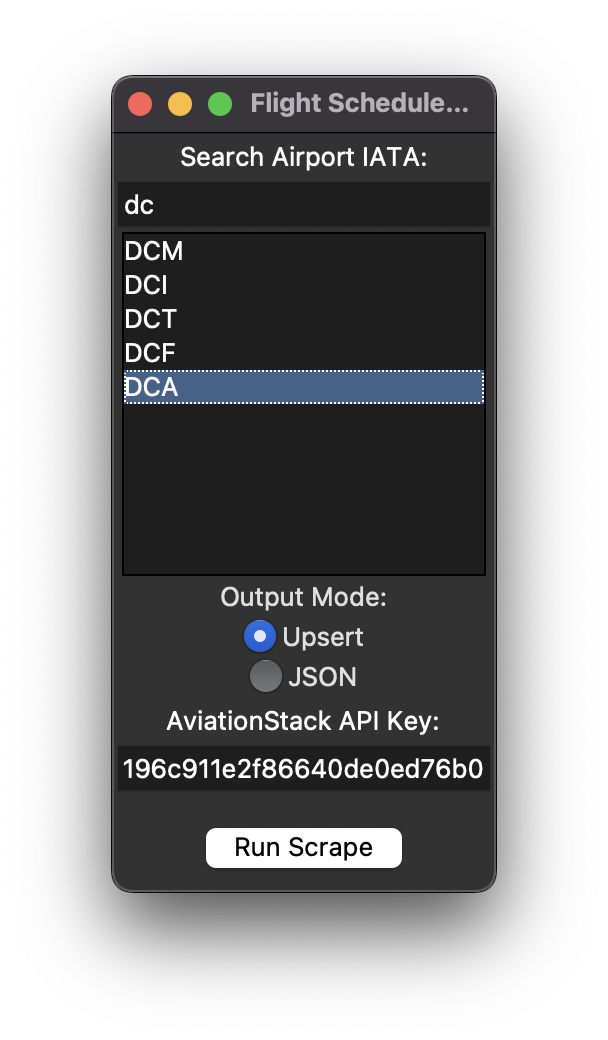
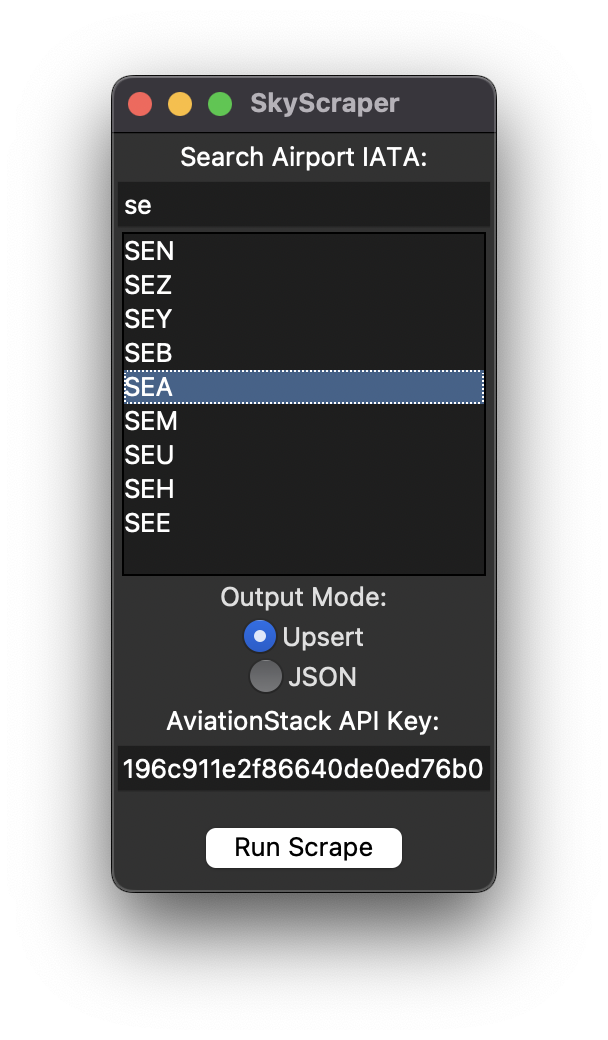
updated SkyScraper with UTC local offset

Changed region(s): [[0.1875, 0.1846, 0.3125, 0.5231], [0.4062, 0.0923, 0.75, 0.1231]]

diff --git a/SkyScraper/scrape_real_flights.py b/SkyScraper/scrape_real_flights.py
@@ -32,26 +32,18 @@ def scrape(airport, api_key, mode="Upsert"):
         records = []
 
         for item in data.get("data", []):
-            # Parse departure and arrival info
             dep = item.get("departure", {})
             arr = item.get("arrival", {})
             flight = item.get("flight", {})
             airline = item.get("airline", {})
 
-            dep_time_str = dep.get("scheduled")
-            arr_time_str = arr.get("scheduled")
+            dep_time_utc = dep.get("scheduled")
+            arr_time_utc = arr.get("scheduled")
 
-            departure_time = dep_time_str
-            arrival_time = arr_time_str
+            if not dep_time_utc or not arr_time_utc:
+                continue
 
-            # --- Compute dayOfWeek using local departure time ---
-            if departure_time:
-                dt = parser.isoparse(departure_time)
-                local_day_of_week = dt.strftime("%A")
-            else:
-                local_day_of_week = None
-
-            # Lookup airport names and iataCodes from MongoDB
+            # Replace +00:00 with local offsets
             dep_iata = dep.get("iata")
             arr_iata = arr.get("iata")
 
@@ -64,7 +56,29 @@ def scrape(airport, api_key, mode="Upsert"):
             dep_iata_final = dep_airport_doc["iataCode"] if dep_airport_doc else dep_iata
             arr_iata_final = arr_airport_doc["iataCode"] if arr_airport_doc else arr_iata
 
-            # Use operating airline if present
+            dep_tz = dep_airport_doc.get("timezone") if dep_airport_doc else None
+            arr_tz = arr_airport_doc.get("timezone") if arr_airport_doc else None
+
+            if dep_tz:
+                dt_dep_utc = parser.isoparse(dep_time_utc)
+                dt_dep_local = dt_dep_utc.astimezone(pytz.timezone(dep_tz))
+                dep_time_local_str = dt_dep_local.isoformat()
+            else:
+                dep_time_local_str = dep_time_utc
+
+            if arr_tz:
+                dt_arr_utc = parser.isoparse(arr_time_utc)
+                dt_arr_local = dt_arr_utc.astimezone(pytz.timezone(arr_tz))
+                arr_time_local_str = dt_arr_local.isoformat()
+            else:
+                arr_time_local_str = arr_time_utc
+
+            if dep_time_local_str:
+                dt = parser.isoparse(dep_time_local_str)
+                local_day_of_week = dt.strftime("%A")
+            else:
+                local_day_of_week = None
+
             codeshared = flight.get("codeshared")
             if codeshared:
                 airline_name = codeshared.get("airline_name")
@@ -73,8 +87,7 @@ def scrape(airport, api_key, mode="Upsert"):
                 airline_name = airline.get("name")
                 flight_number = flight.get("number")
 
-            # Skip if missing required fields
-            if not (dep_airport_name and arr_airport_name and departure_time and arrival_time):
+            if not (dep_airport_name and arr_airport_name and dep_time_local_str and arr_time_local_str):
                 continue
 
             record = {
@@ -86,8 +99,8 @@ def scrape(airport, api_key, mode="Upsert"):
                     "name": arr_airport_name,
                     "iataCode": arr_iata_final
                 },
-                "departureTime": departure_time,
-                "arrivalTime": arrival_time,
+                "departureTime": dep_time_local_str,
+                "arrivalTime": arr_time_local_str,
                 "airline": airline_name,
                 "flightNumber": flight_number,
                 "dayOfWeek": local_day_of_week
@@ -99,7 +112,7 @@ def scrape(airport, api_key, mode="Upsert"):
             print("No valid flight data returned.")
             return False, 0, mode
 
-        # Deduplicate by key fields
+        # Deduplicate
         unique = {}
         for rec in records:
             key = (
@@ -111,7 +124,6 @@ def scrape(airport, api_key, mode="Upsert"):
             unique[key] = rec
         records = list(unique.values())
 
-        # Store in MongoDB or JSON
         if mode == "Upsert":
             for rec in records:
                 flights_col.update_one(

diff --git a/SkyScraper/scraper_gui.py b/SkyScraper/scraper_gui.py
@@ -4,7 +4,6 @@ import tkinter as tk
 from tkinter import ttk, messagebox
 from pymongo import MongoClient
 from datetime import datetime
-import pytz
 import scrape_real_flights
 import os
 
@@ -27,7 +26,7 @@ if os.path.exists("completed_scrapes.txt"):
 # Tkinter GUI
 # --------------------------
 root = tk.Tk()
-root.title("Flight Schedule Scraper")
+root.title("SkyScraper")
 
 # --- Airport search ---
 search_var = tk.StringVar()
@@ -64,17 +63,21 @@ def run_scrape():
         messagebox.showerror("Error", "Please select an airport.")
         return
 
-    api_key = api_key_var.get()
+    api_key = api_key_var.get().strip()
+    if not api_key:
+        messagebox.showerror("Error", "Please enter your AviationStack API key.")
+        return
+
     mode = mode_var.get()
 
-    airport_doc = airports_col.find_one({"iataCode": airport})
-    timezone_str = airport_doc["timezone"] if airport_doc else "UTC"
+    today = datetime.today()
+    local_date_str = today.strftime("%Y-%m-%d")
+    key = f"{airport}|{local_date_str}"
 
-    local_tz = pytz.timezone(timezone_str)
-    now_local = datetime.now(local_tz)
-    date_str = now_local.strftime("%Y-%m-%d %H:%M")
-
-    key_prefix = f"{airport}|{date_str}"
+    # Disable this block to allow re-scraping same day:
+    # if key in completed:
+    #     messagebox.showerror("Error", f"{airport} for {local_date_str} already scraped.")
+    #     return
 
     success, record_count, actual_mode = scrape_real_flights.scrape(
         airport=airport,
@@ -83,21 +86,10 @@ def run_scrape():
     )
 
     if success:
-        if actual_mode == "Upsert":
-            log_line = f"{key_prefix}|Upserted {record_count} flights"
-        else:
-            log_line = f"{key_prefix}|Saved... {record_count} flights to JSON"
-
         with open("completed_scrapes.txt", "a") as f:
-            f.write(f"{log_line}\n")
-
-        completed.add(log_line)
-        messagebox.showinfo(
-            "Done",
-            f"Scrape complete for {airport}!\n{log_line}"
-        )
-    else:
-        messagebox.showerror("Error", f"Scrape failed for {airport}.")
+            f.write(f"{key} | {record_count} flights [{actual_mode}]\n")
+        completed.add(key)
+        messagebox.showinfo("SkyScraper", f"Scrape complete for {airport} on {local_date_str}!\nFlights saved: {record_count} [{actual_mode}]")
 
 tk.Button(root, text="Run Scrape", command=run_scrape).pack(pady=10)
 
